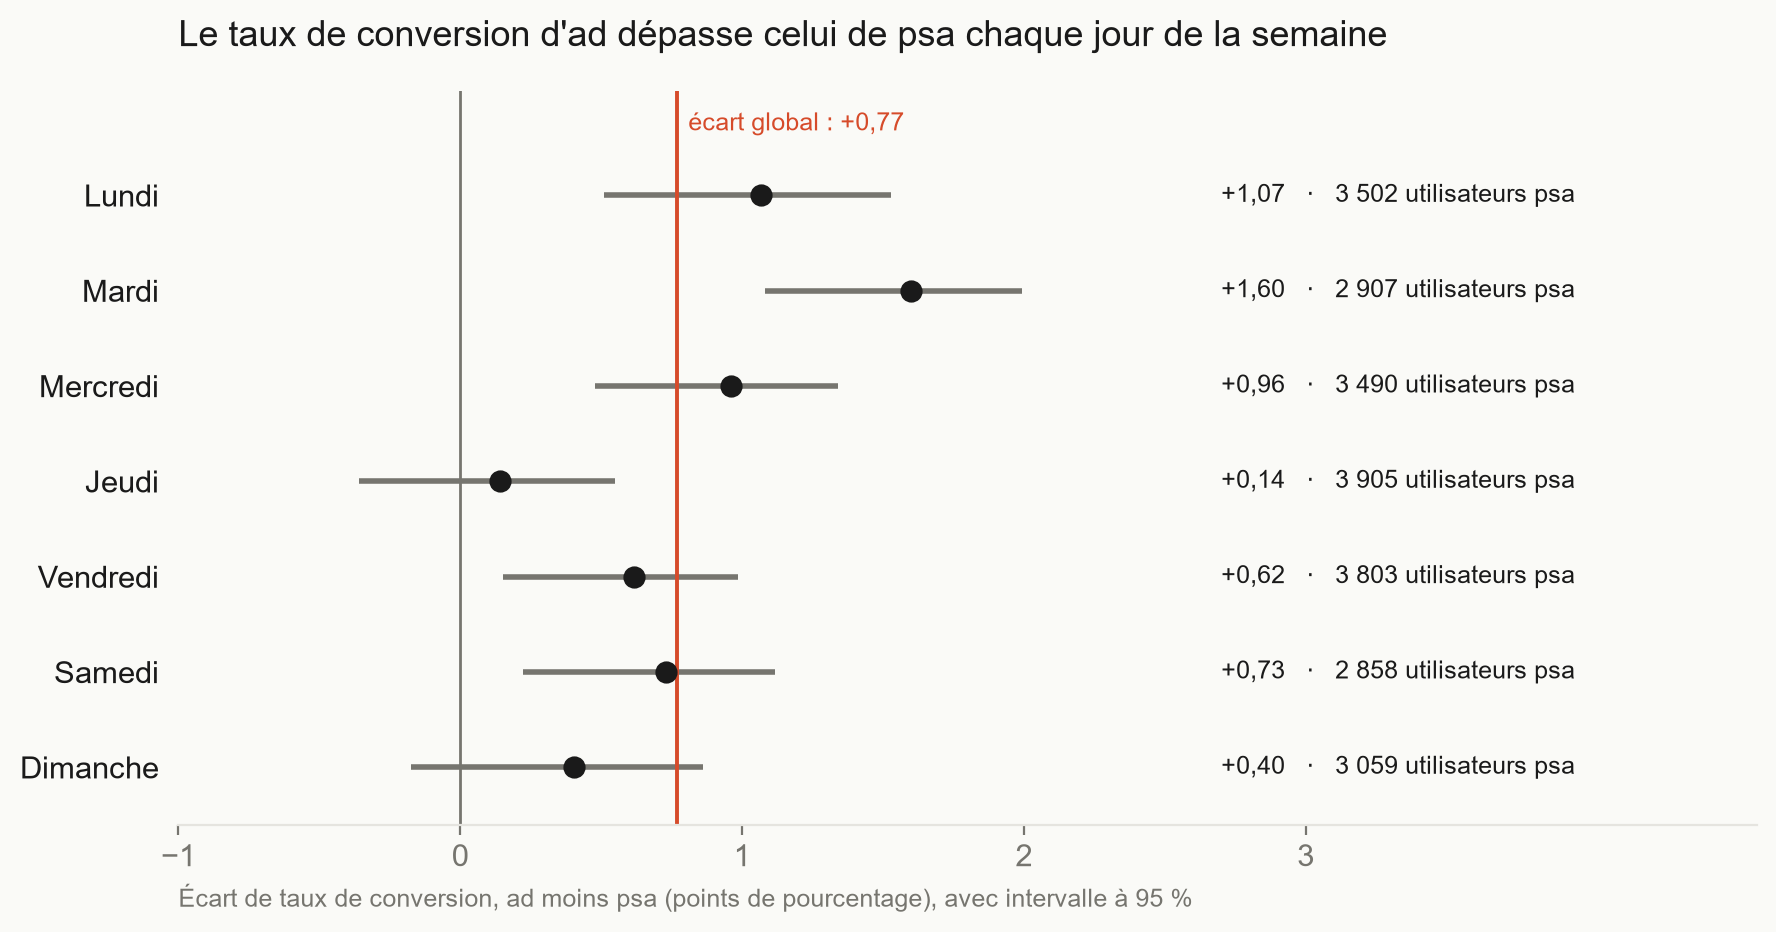
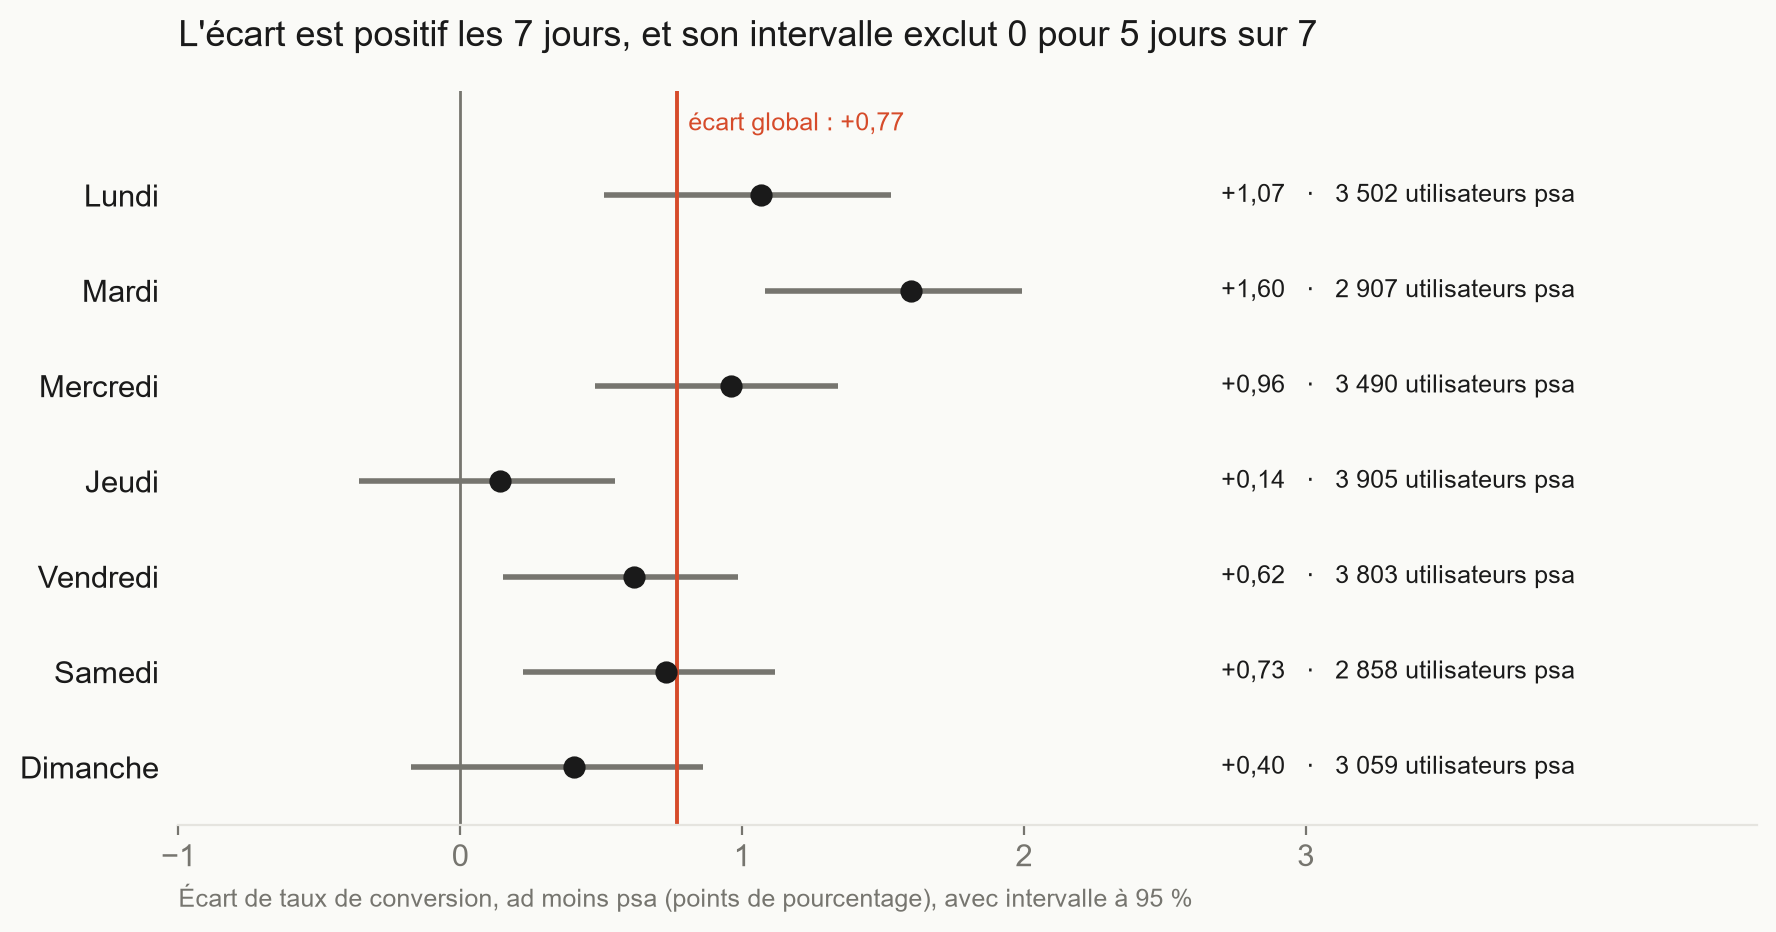
Robustesse : interactions jour/période, écart par niveau d'exposition

Changed region(s): [[0.0929, 0.0311, 0.7742, 0.0622]]

diff --git a/exposition.py b/exposition.py
@@ -1,0 +1,110 @@
+from pathlib import Path
+
+import numpy as np
+import pandas as pd
+import matplotlib.pyplot as plt
+import statsmodels.formula.api as smf
+from scipy import stats
+from statsmodels.stats.proportion import confint_proportions_2indep
+
+CSV = Path("data") / "marketing_AB.csv"   # le même nom que dans robustesse.py
+assert CSV.exists(), f"Fichier introuvable : {CSV}"
+DOCS = Path("docs")
+DOCS.mkdir(exist_ok=True)
+
+PAPER, INK, MUTED, RULE, ACCENT = "#FAFAF7", "#1A1A1A", "#76756F", "#E5E4DF", "#D64B2A"
+plt.rcParams.update({
+    "figure.facecolor": PAPER, "axes.facecolor": PAPER, "savefig.facecolor": PAPER,
+    "axes.edgecolor": RULE, "axes.labelcolor": MUTED, "text.color": INK,
+    "xtick.color": MUTED, "ytick.color": MUTED,
+    "axes.spines.top": False, "axes.spines.right": False, "axes.grid": False,
+    "font.sans-serif": ["Arial", "DejaVu Sans"], "font.size": 11,
+    "figure.dpi": 110, "savefig.dpi": 200,
+})
+
+
+def fr(x, d=2):
+    return f"{x:.{d}f}".replace(".", ",")
+
+
+def milliers(n):
+    return f"{int(n):,}".replace(",", " ")
+
+
+pd.set_option("display.width", 200)
+pd.set_option("display.max_columns", None)
+
+df = pd.read_csv(CSV).drop(columns="Unnamed: 0")
+df.columns = ["user_id", "test_group", "converted", "total_ads", "most_ads_day", "most_ads_hour"]
+df["est_ad"] = (df["test_group"] == "ad").astype(int)
+df["conv"] = df["converted"].astype(int)
+
+noms = ["1 à 4", "5 à 9", "10 à 24", "25 à 49", "50 à 99", "100 et plus"]
+df["tranche"] = pd.cut(df["total_ads"], bins=[0, 4, 9, 24, 49, 99, np.inf], labels=noms)
+
+
+def comparer(d):
+    a, b = d[d["est_ad"] == 1], d[d["est_ad"] == 0]
+    x1, n1, x0, n0 = int(a["conv"].sum()), len(a), int(b["conv"].sum()), len(b)
+    bas, haut = confint_proportions_2indep(x1, n1, x0, n0, method="newcomb", compare="diff")
+    return {"n_ad": n1, "n_psa": n0, "conv_ad": x1, "conv_psa": x0,
+            "taux_ad": 100 * x1 / n1, "taux_psa": 100 * x0 / n0,
+            "ecart": 100 * (x1 / n1 - x0 / n0), "bas": 100 * bas, "haut": 100 * haut}
+
+
+print("--- 1. interaction groupe x tranche d'exposition ---")
+base = smf.logit("conv ~ est_ad + C(tranche)", data=df).fit(disp=0)
+complet = smf.logit("conv ~ est_ad * C(tranche)", data=df).fit(disp=0)
+lr = 2 * (complet.llf - base.llf)
+ddl = int(round(complet.df_model - base.df_model))
+print(f"khi2 = {lr:.1f}   ddl = {ddl}   p = {stats.chi2.sf(lr, ddl):.3g}")
+
+print("\n--- 2. écart sous et à partir de 25 publicités ---")
+for nom, masque in [("moins de 25", df["total_ads"] < 25), ("25 et plus ", df["total_ads"] >= 25)]:
+    r = comparer(df[masque])
+    print(f"{nom} : ad {r['taux_ad']:.3f} % ({milliers(r['n_ad'])})   psa {r['taux_psa']:.3f} % "
+          f"({milliers(r['n_psa'])})   écart {r['ecart']:+.3f} points   IC95 [{r['bas']:.3f} ; {r['haut']:.3f}]")
+
+print("\n--- 3. poids des utilisateurs exposés à 25 publicités ou plus ---")
+for nom, est in [("ad ", 1), ("psa", 0)]:
+    g = df[df["est_ad"] == est]
+    h = g["total_ads"] >= 25
+    print(f"{nom} : {100 * h.mean():.1f} % des utilisateurs, "
+          f"{100 * g.loc[h, 'conv'].sum() / g['conv'].sum():.1f} % des convertis")
+
+print("\n--- 4. détail par tranche ---")
+res = pd.DataFrame([{"tranche": t, **comparer(df[df["tranche"] == t])} for t in noms])
+print(res.round(3).to_string(index=False))
+
+# Garde-fou : le titre du graphique suppose que seules les 3 dernières tranches excluent 0 par le haut
+positives = list(res.loc[res["bas"] > 0, "tranche"])
+assert positives == noms[3:], f"Titre à revoir, tranches positives : {positives}"
+
+fig, ax = plt.subplots(figsize=(10, 4.8))
+y = list(range(len(res)))
+ax.hlines(y, res["bas"], res["haut"], color=MUTED, linewidth=2, zorder=1)
+ax.plot(res["ecart"], y, "o", color=INK, markersize=7, zorder=3)
+ax.axvline(0, color=MUTED, linewidth=1, zorder=0)
+ecart_global = 100 * (df.loc[df["est_ad"] == 1, "conv"].mean() - df.loc[df["est_ad"] == 0, "conv"].mean())
+ax.axvline(ecart_global, color=ACCENT, linewidth=1.4, zorder=2)
+ax.text(ecart_global + 0.1, -0.8, f"écart global : +{fr(ecart_global)}", color=ACCENT, fontsize=9, va="center")
+for i, r in res.iterrows():
+    ax.text(8.2, i,
+            f"{fr(r.ecart):>6}   ·   ad {fr(r.taux_ad)} %   psa {fr(r.taux_psa)} %   ·   {milliers(r.n_psa)} utilisateurs psa",
+            va="center", ha="left", fontsize=9)
+ax.set_yticks(y)
+ax.set_yticklabels([f"{t} publicités" for t in res["tranche"]], color=INK)
+ax.invert_yaxis()
+ax.set_xlim(-1.5, 19)
+ax.set_ylim(5.6, -1.2)
+ax.set_xticks([0, 2, 4, 6, 8])
+ax.spines["left"].set_visible(False)
+ax.tick_params(left=False)
+ax.set_xlabel("Écart de taux de conversion, ad moins psa (points de pourcentage), avec intervalle à 95 %",
+              loc="left", fontsize=9)
+ax.set_title("L'écart est net à partir de 25 publicités vues, et absent en dessous",
+             loc="left", fontsize=13, pad=16)
+fig.tight_layout()
+fig.savefig(DOCS / "04_ecart_par_exposition.png", bbox_inches="tight")
+plt.close(fig)
+print("\nImage enregistrée : docs/04_ecart_par_exposition.png")

diff --git a/robustesse.py b/robustesse.py
@@ -1,0 +1,54 @@
+from pathlib import Path
+
+import numpy as np
+import pandas as pd
+import statsmodels.formula.api as smf
+from scipy import stats
+from statsmodels.stats.proportion import confint_proportions_2indep
+
+CSV = Path("data") / "marketing_AB.csv"   # le même nom que dans graphiques.py
+assert CSV.exists(), f"Fichier introuvable : {CSV}"
+
+pd.set_option("display.width", 200)
+pd.set_option("display.max_columns", None)
+
+df = pd.read_csv(CSV).drop(columns="Unnamed: 0")
+df.columns = ["user_id", "test_group", "converted", "total_ads", "most_ads_day", "most_ads_hour"]
+df["est_ad"] = (df["test_group"] == "ad").astype(int)
+df["conv"] = df["converted"].astype(int)
+
+print("--- 1. l'effet de ad varie-t-il selon le jour ou l'heure ? (test du rapport de vraisemblance) ---")
+base = smf.logit("conv ~ est_ad + C(most_ads_day) + C(most_ads_hour)", data=df).fit(disp=0)
+df["periode"] = pd.cut(df["most_ads_hour"], bins=[-1, 5, 11, 17, 23],
+                       labels=["0-5 h", "6-11 h", "12-17 h", "18-23 h"])
+base_periode = smf.logit("conv ~ est_ad + C(most_ads_day) + C(periode)", data=df).fit(disp=0)
+
+tests = [
+    ("jour           ", "conv ~ est_ad * C(most_ads_day) + C(most_ads_hour)", base),
+    ("heure (24)     ", "conv ~ est_ad * C(most_ads_hour) + C(most_ads_day)", base),
+    ("période (4)    ", "conv ~ est_ad * C(periode) + C(most_ads_day)", base_periode),
+]
+for nom, formule, reference in tests:
+    complet = smf.logit(formule, data=df).fit(disp=0, maxiter=200)
+    lr = 2 * (complet.llf - reference.llf)
+    ddl = int(round(complet.df_model - reference.df_model))
+    converge = "oui" if complet.mle_retvals["converged"] else "NON"
+    print(f"interaction groupe x {nom}: khi2 = {lr:.1f}   ddl = {ddl}   "
+          f"p = {stats.chi2.sf(lr, ddl):.3g}   convergence : {converge}")
+
+print("\n--- 2. conversion par tranche de total_ads et par groupe ---")
+bornes = [0, 4, 9, 24, 49, 99, np.inf]
+noms = ["1 à 4", "5 à 9", "10 à 24", "25 à 49", "50 à 99", "100 et plus"]
+df["tranche"] = pd.cut(df["total_ads"], bins=bornes, labels=noms)
+
+lignes = []
+for t in noms:
+    d = df[df["tranche"] == t]
+    a, b = d[d["est_ad"] == 1], d[d["est_ad"] == 0]
+    x1, n1, x0, n0 = int(a["conv"].sum()), len(a), int(b["conv"].sum()), len(b)
+    bas, haut = confint_proportions_2indep(x1, n1, x0, n0, method="newcomb", compare="diff")
+    lignes.append({"tranche": t, "n_ad": n1, "n_psa": n0,
+                   "taux_ad_pct": 100 * x1 / n1, "taux_psa_pct": 100 * x0 / n0,
+                   "ecart_points": 100 * (x1 / n1 - x0 / n0),
+                   "ic_bas": 100 * bas, "ic_haut": 100 * haut})
+print(pd.DataFrame(lignes).round(3).to_string(index=False))
